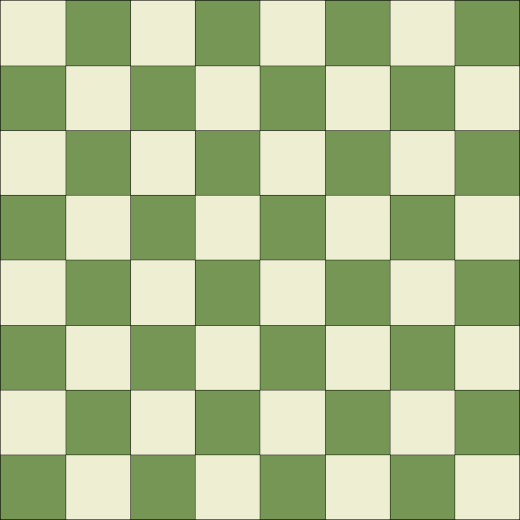
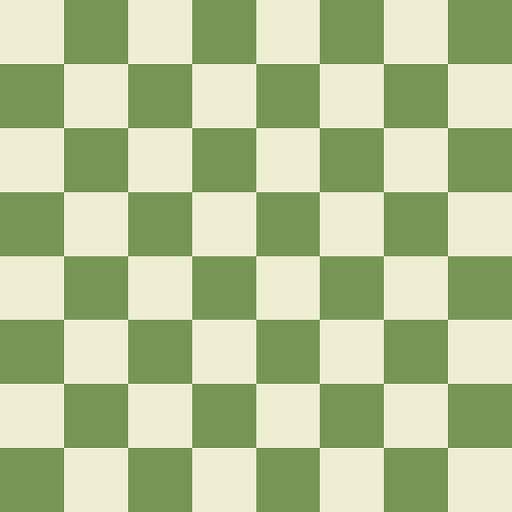
styling changes

diff --git a/app.js b/app.js
@@ -26,7 +26,7 @@ function populate_board(){
 }
 var move; var chosen=false; var prev;
 function select(i){
-    if(!chosen){
+    if(!chosen){ var n;
         if(arr[i]>0 || arr[i]<0){
             document.getElementById("box_"+i).style.backgroundColor="yellow";
         }
@@ -96,16 +96,23 @@ function select(i){
         }
         else{
             for(k=0;k<move.length;k++){
-                if(i==move[k]){
+                if(i==move[k]){ n=arr[i];
                     arr[i]=arr[prev];
                     arr[prev]=0;
                     reset_board_colours();
                     populate_board();
                     chosen=false;
                     move=[];
-                    setTimeout(() => {
-                        ai();
-                    }, 1000);
+                    if(n==-6){
+                        setTimeout(() => {
+                            victory_message();
+                        }, 1000);
+                    }
+                    else{
+                        setTimeout(() => {
+                            ai();
+                        }, 1000);
+                    }
                     break;
                 }
                 else if(i==prev){
@@ -511,7 +518,7 @@ function reset_board_colours(){
 function ai(){
     var x; var y=[]; var z; var u; var v; var w=[]; var p=1000;
     var t; var tv=0; //total value
-    var s; var r; var q; var n=-1000;
+    var s; var r; var q; var n;
     for(x=0;x<64;x++){
         select(x);y.push([x,move]);select(x);
     }
@@ -535,6 +542,18 @@ function ai(){
                 q=[w[x][0],w[x][1],w[x][2]];
         }
     }
+    n=arr[q[1]];
     arr[q[1]]=arr[q[0]]; arr[q[0]]=0;
     populate_board();
+    if(n==6){
+        setTimeout(() => {
+            defeat_message();
+        }, 1000);
+    }
+}
+function victory_message(){
+    window.alert("Hurray! You win!!");
+}
+function defeat_message(){
+    window.alert("Game Over. Blacks win!!");
 }

diff --git a/style.css b/style.css
@@ -1,11 +1,24 @@
+body{
+    padding: 0px; margin: 0px;
+}
 #board{
-    width: 520px; height: 520px; border-left: 1px black solid; border-top: 1px black solid;
+    width: 512px; height: 512px;
     display: inline-flex; flex-wrap: wrap;background-image: url("assets/board.png");
 }
 .box{
-    width: 64px; height: 64px; border-right: 1px black solid; border-bottom: 1px black solid; font-size: smaller;
+    width: 64px; height: 64px; font-size: smaller;
     display: flex;align-items: center;justify-content: center; cursor: pointer; background-color: transparent;
 }
 .chess_piece{
     width: 90%; height: 90%;
+}
+@media (orientation:landscape) {
+    body{
+        display: flex; height: 90vh; align-items: center; justify-content: center;
+    }
+}
+@media (orientation:portrait){
+    body{
+        height: 100vh; padding-top: 40%;
+    }
 }
